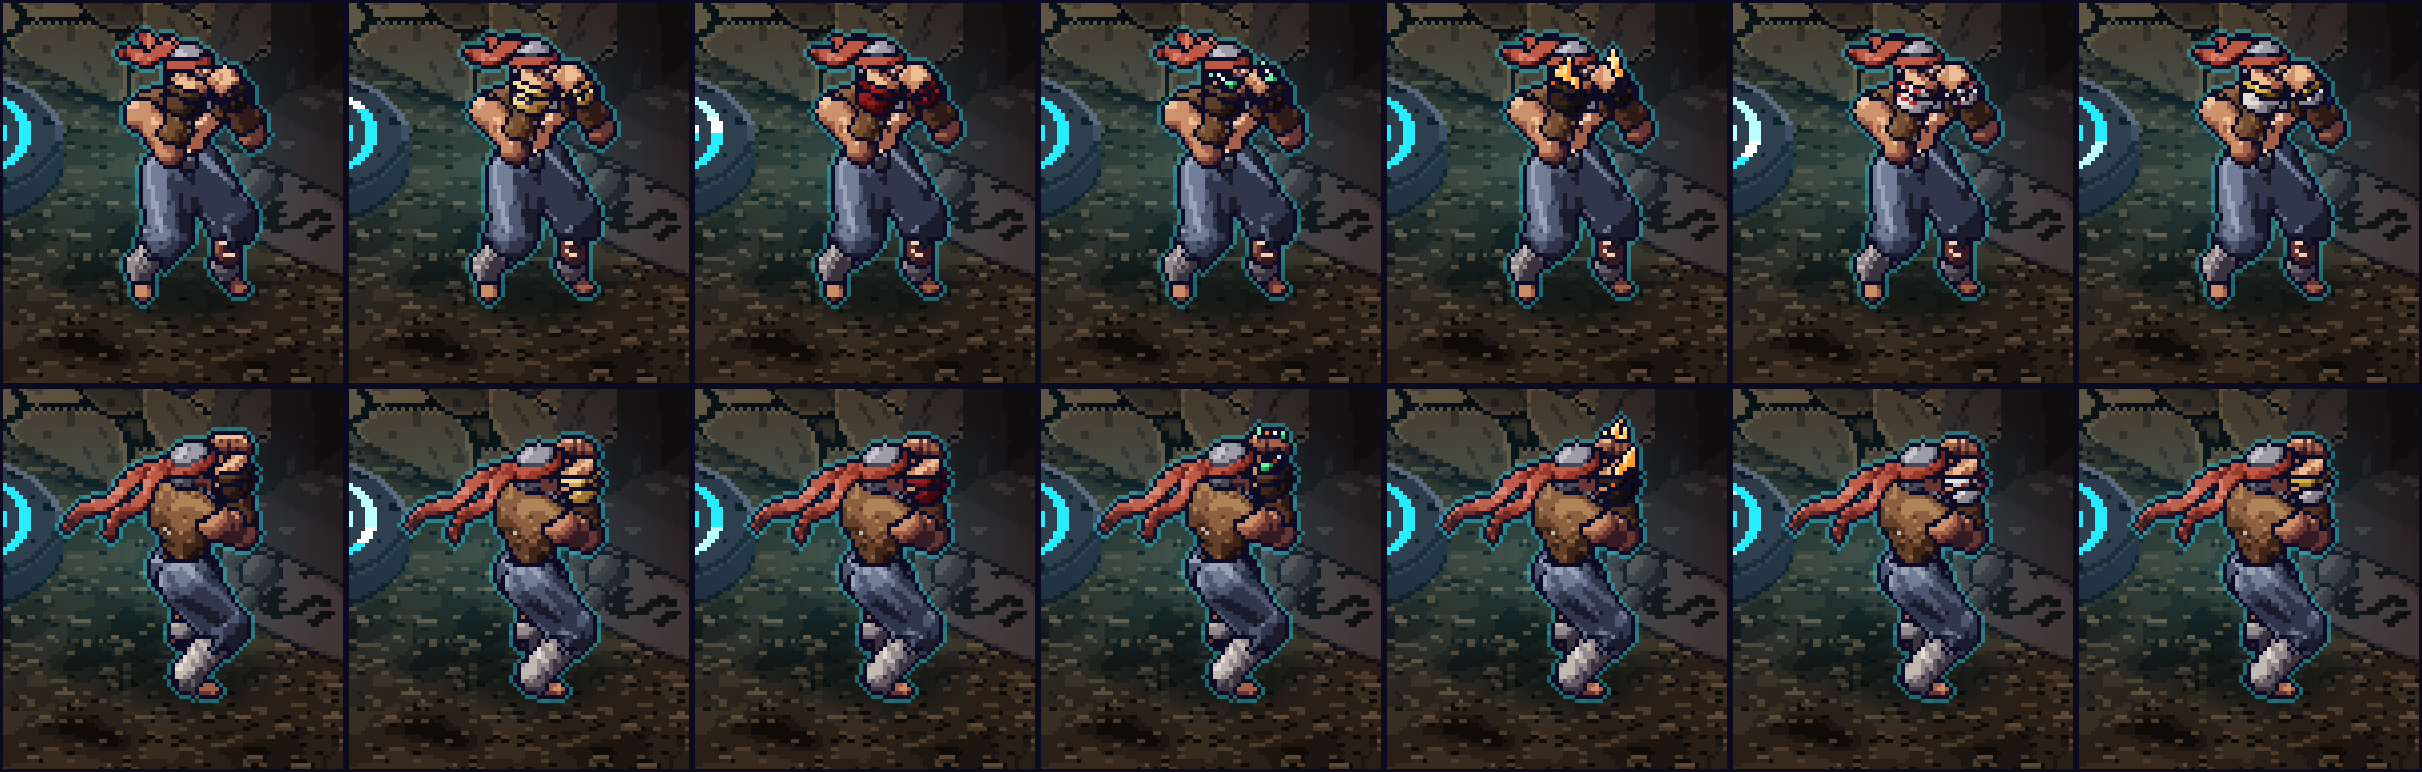
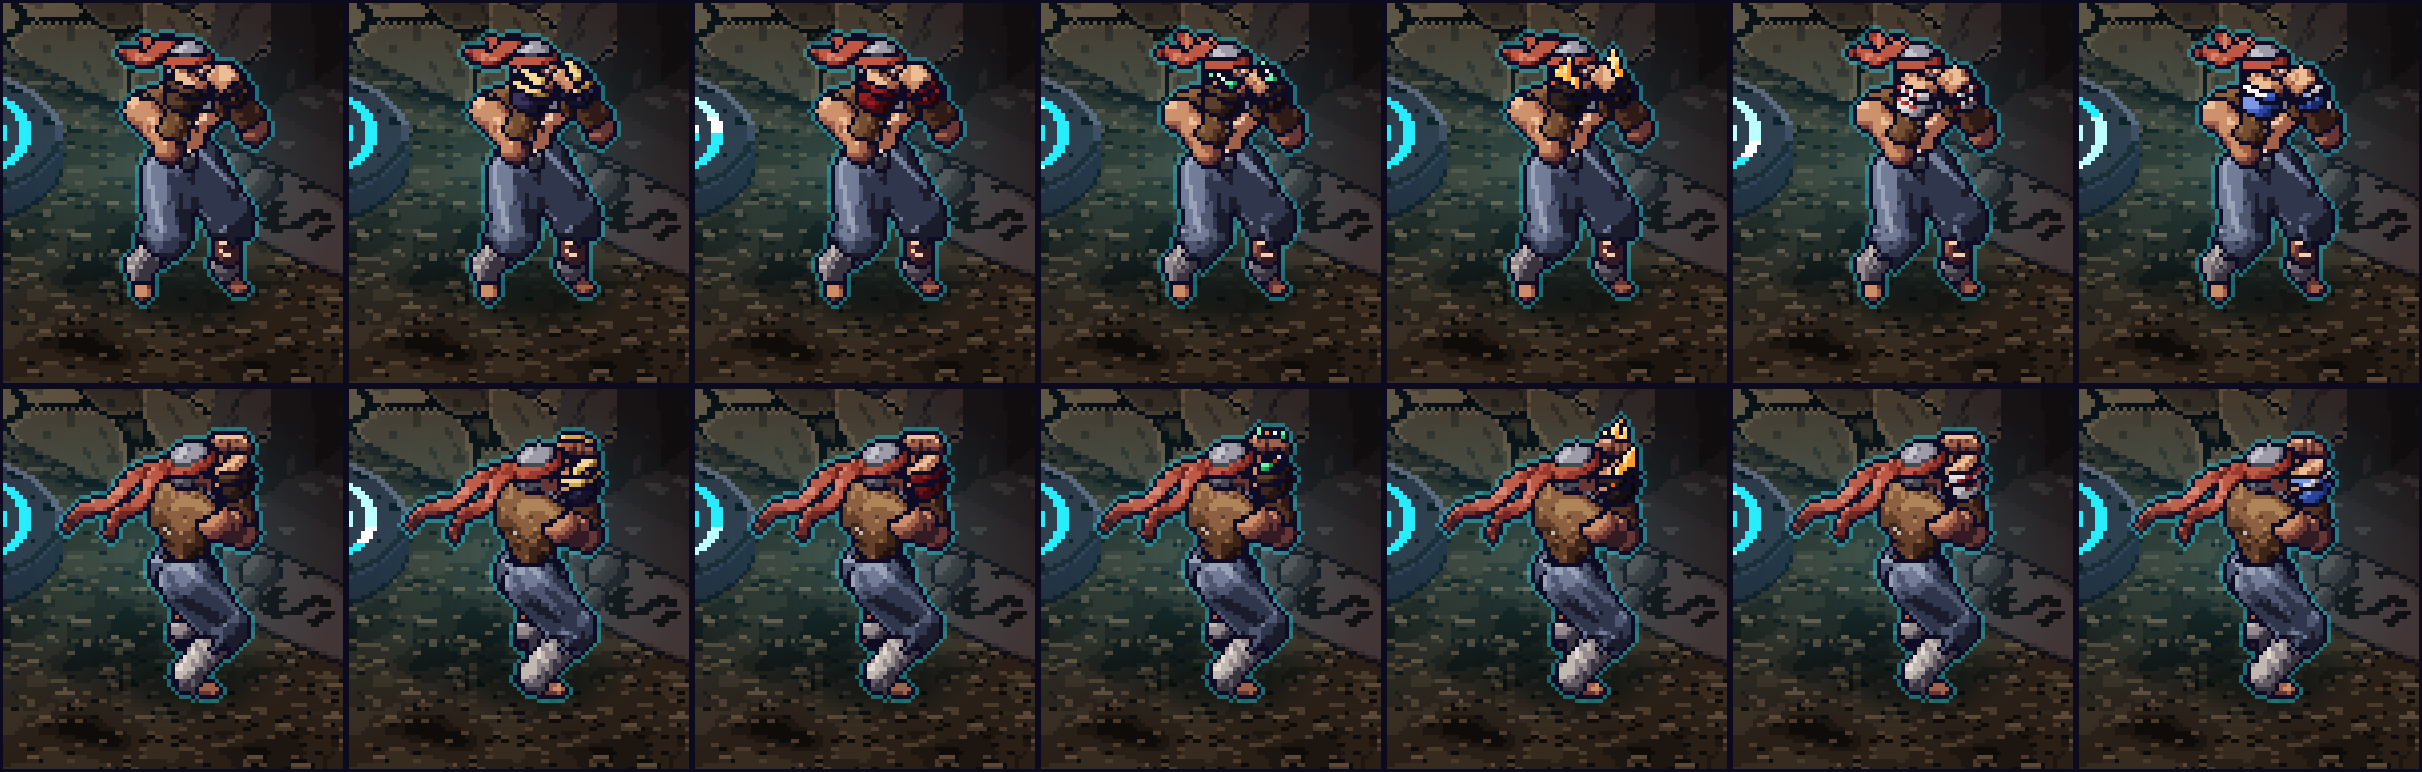
The Brawler's wraps side by side after Brass Knuckles and Hot Streak were reworked; the record of his word
Claude-Session: https://claude.ai/code/session_01JYSqoXW1pxFoPGinns3Pkk

diff --git a/docs/mockups/defence_uniques/on_hero/README.md b/docs/mockups/defence_uniques/on_hero/README.md
@@ -27,3 +27,15 @@ sheets made again:
   icicle, point up: her own staff).
 - Brass Knuckles: each fist cased in brass, all of it (twice: brass from the knuckles down still read as his own wraps).
   Still the nearest to another of the six: Hot Streak has gilt and white at the knuckles.
+
+## Brass Knuckles and Hot Streak (24 Nov 2026, later still)
+
+His words, told Brass Knuckles was still the nearest of the six to another (Hot Streak's gilt): “I mean we all know what brass
+knuckles look like so if it's similar to another unique I feel like the other one needs to be changed”.
+
+- BRASS KNUCKLES: as brass knuckles are. Black straps, a thick bar of brass over the knuckles, a knob standing off it on every
+  knuckle (`src/art/wrap_skins.ts` BRASS_WRAPS).
+- HOT STREAK (one of the first four, his yes of 15 Nov to its first look): blue silk, a white band at the knuckles, a white
+  rosette with a gilt heart, in place of white linen with gilt round the knuckles and a blue rosette. The brass is Brass
+  Knuckles' alone. CHANGED WITHOUT A PICTURE FIRST, at his word above; `brawler.png` here is its picture, his to turn down.
+- Both baked again; the bag pictures the same. Checked: `defuniques` 43 of 43, `skins` 50 of 50.
